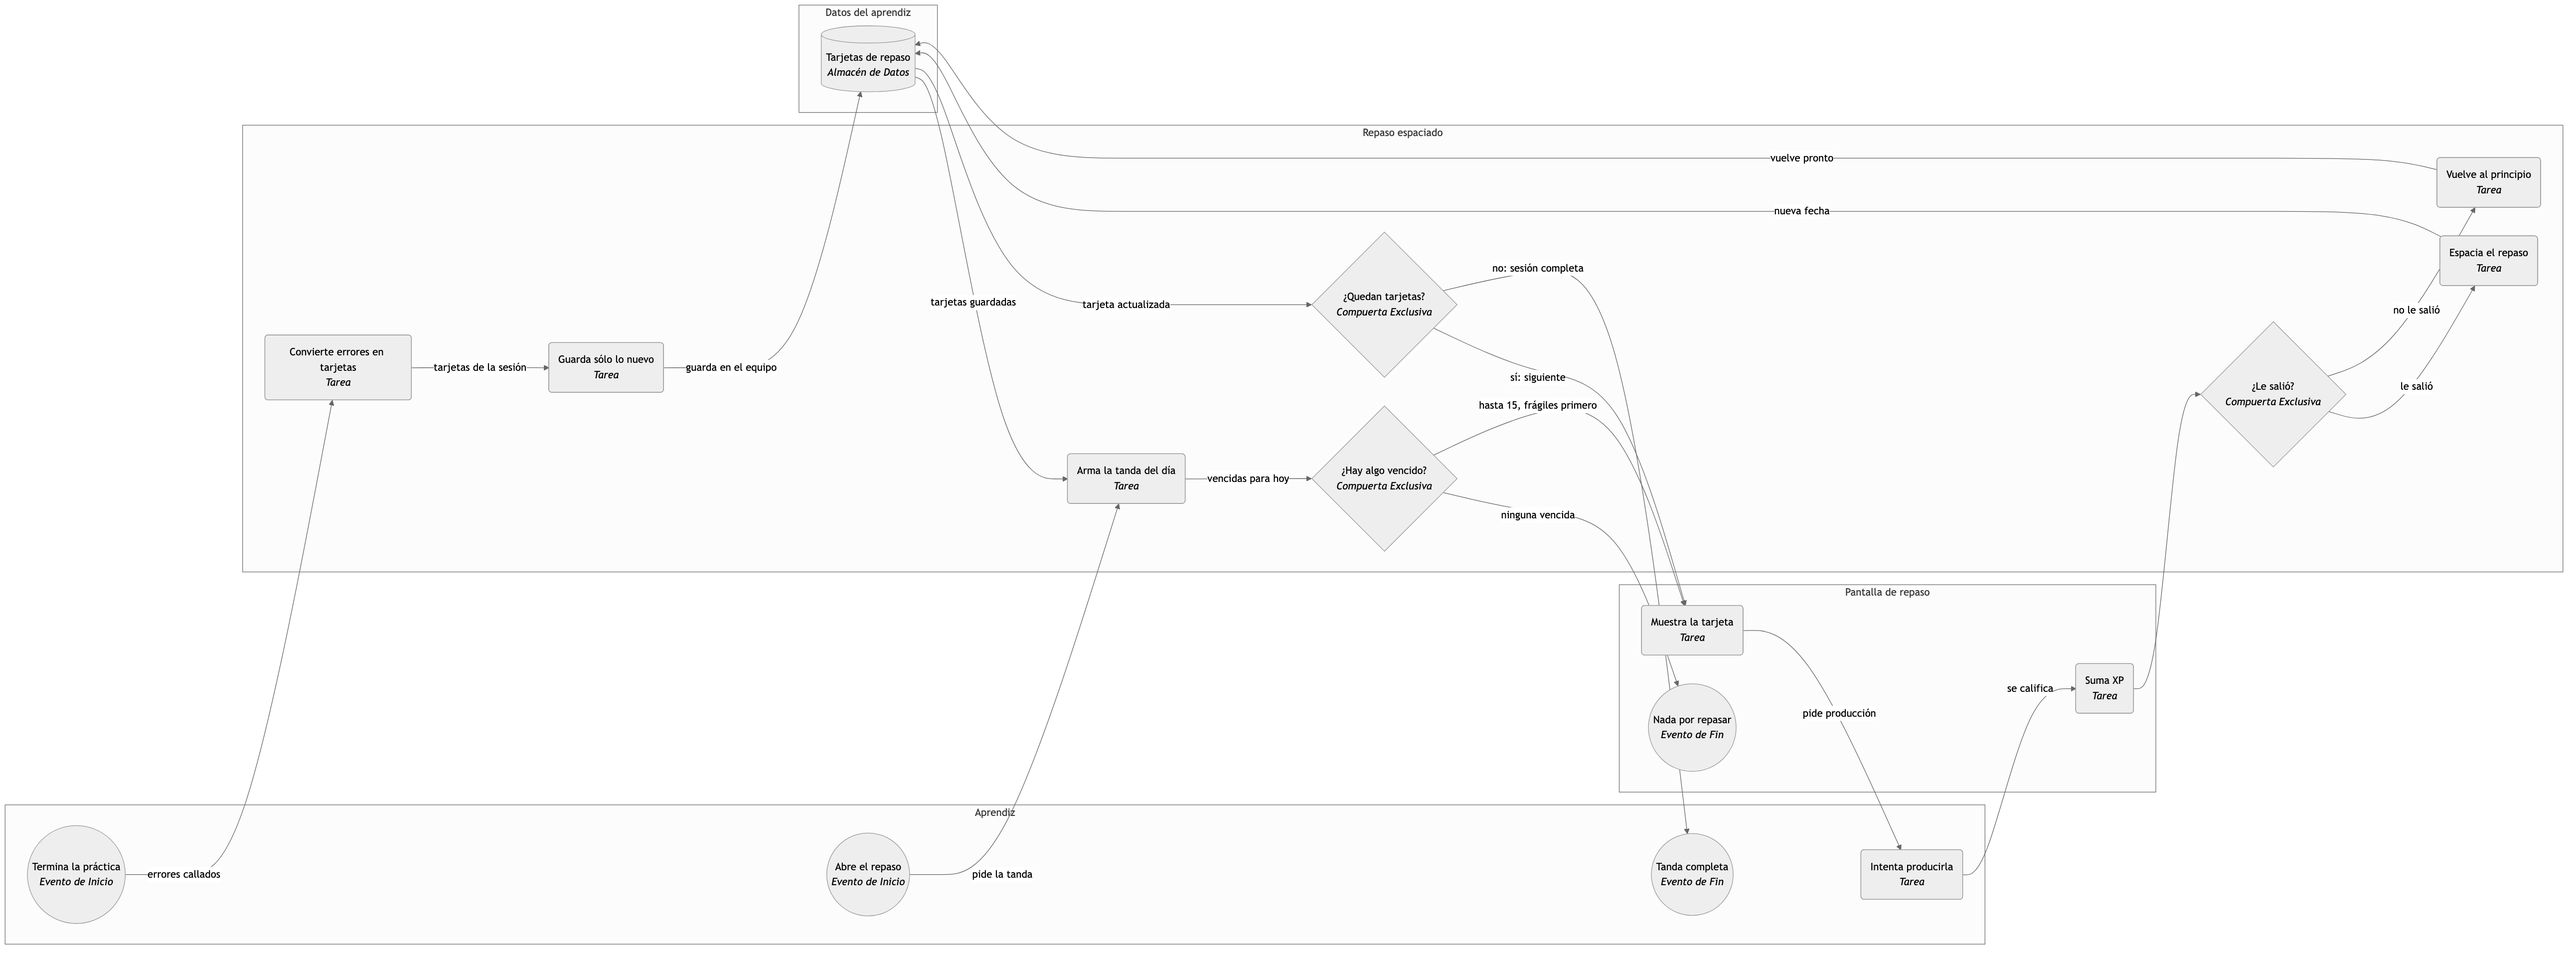
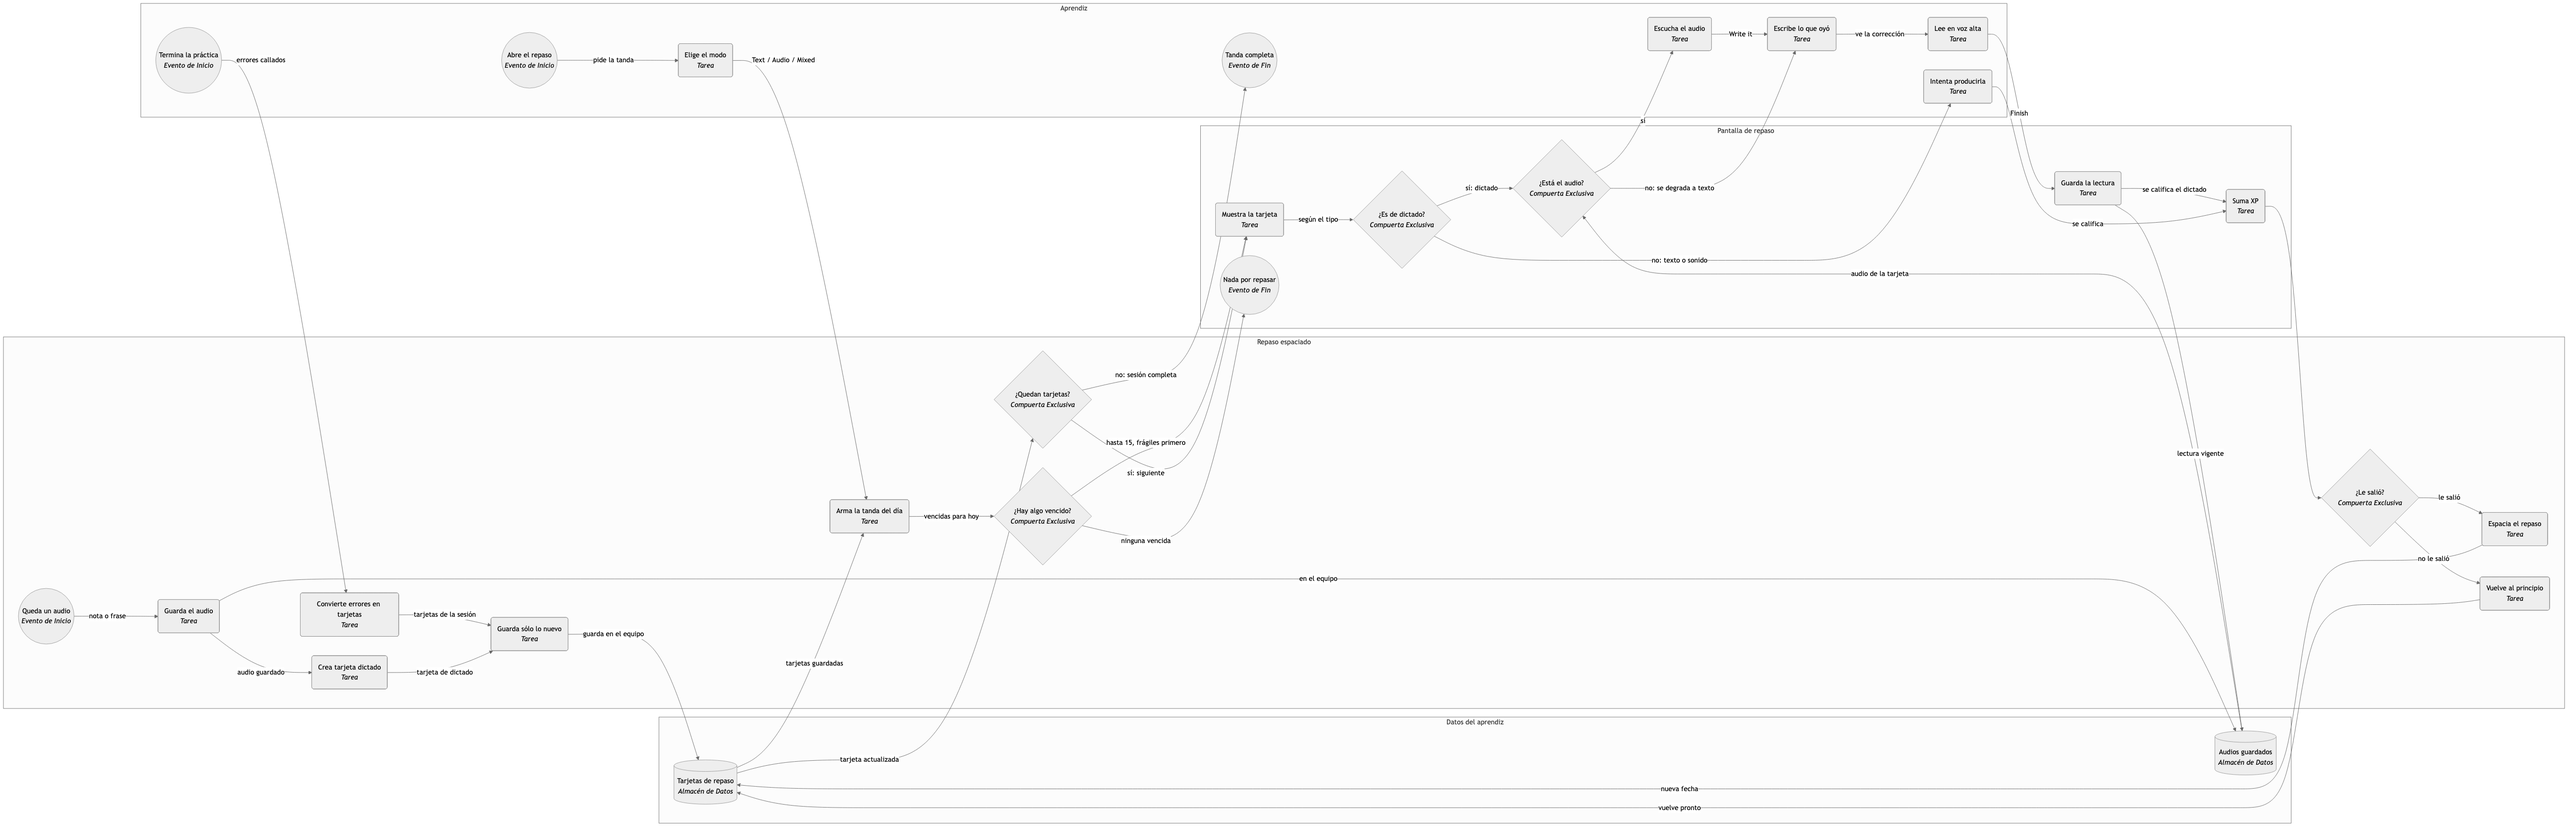
docs: arquitectura, diagramas y notas de release del repaso con audio
- ARCHITECTURE.md: puertos IAudioStore / ISetupProbe / ISetupCheckRepository,
  árbol EmmaProvider → AiGate → SetupCheckGate, layout de audio en userData,
  WAV → Opus, tope y desalojo, borrado en cascada y el freno de privacidad.
- Instantáneas repaso-srs, voz-y-pronunciacion y simulacion-y-feedback
  reescritas desde los callers reales; vistas PFA actualizadas (también
  Onboarding y C4, sin instantánea).
- docs/releases/0.11.0.md (borrador): incluye que volver a 0.10.x descarta
  las tarjetas audio-recall.

Closes #316
Closes #317

diff --git a/docs/ARCHITECTURE.md b/docs/ARCHITECTURE.md
@@ -67,8 +67,25 @@ El dominio define **puertos** (interfaces); afuera viven los **adaptadores**.
   que anuncia el premio con el evento de ventana `emma:xp-awarded`: la capa de
   celebración y la tarjeta de la barra lateral lo escuchan sin store global.
 
+- `src/domain/audio/i-audio-store.ts` → `IAudioStore` (`save`/`load`/`remove`/
+  `removeByConversation`/`removeAll`/`list`/`usage`): el audio guardado del repaso
+  (#281). El binario **no** viaja por el store JSON. Adaptador:
+  `src/infrastructure/audio/ipc-audio-store.ts` sobre los canales `audio-clip-*` del
+  main, con la respuesta validada con Zod también a la vuelta.
+- `src/domain/setup/i-setup-probe.ts` → `ISetupProbe` (`probeVoice`/`probeAi`/
+  `probeMic`, cada una con su `AbortSignal`): el chequeo de setup mide con las MISMAS
+  piezas que usa la práctica. Adaptador: `src/infrastructure/setup/browser-setup-probe.ts`
+  (nunca abre el micrófono: el permiso lo consulta el main con `systemPreferences`).
+- `src/domain/setup/i-setup-check-repository.ts` → `ISetupCheckRepository`
+  (`last`/`history`/`append`/`acknowledgeLast`): historial del chequeo (colección
+  `setupChecks`, tope de 20, sólo mediciones y diagnósticos). Adaptador:
+  `src/infrastructure/persistence/setup-check-repository.ts`.
+
 El perfil de nivel y el historial se cablean en `src/interface/di/repositories.ts`
-(`profileLevel`, `chatHistory`).
+(`profileLevel`, `chatHistory`). El audio y el chequeo se exponen a la UI por dos
+fachadas que atan casos de uso y puertos: `src/interface/audio-facade.ts` (con una
+cola para las escrituras de tarjetas: el store JSON es leer-modificar-escribir) y
+`src/interface/setup-facade.ts` (`run`/`needsFirstRun`/`acknowledge`).
 
 **Inyección:** los casos de uso reciben el puerto por argumento, nunca lo importan
 concreto. Ejemplo canónico: `application/english-teacher/teach-use-case.ts`
@@ -128,12 +145,73 @@ para `prefers-reduced-motion`). Freno:
 `src/components/__tests__/movimiento-centralizado.test.ts` (falla si un componente
 animado importa `motion/react` directo).
 
+## Audio guardado y chequeo de setup (#281)
+
+**Árbol de providers** (`src/interface/app-providers.tsx`), de afuera hacia adentro:
+
+```
+MotionProvider
+└─ EmmaProvider            runtime, perfil, repos
+   ├─ AiGate               bloquea hasta que hay motor de IA (local o nube)
+   │  └─ SetupCheckGate    primer arranque: chequeo de voz, IA y micrófono
+   │     └─ children       onboarding / app
+   ├─ SetupIssueListener   fallos en vivo → sugiere el chequeo (máx. 1 cada 10 min)
+   ├─ Toaster
+   └─ CelebrationLayer
+```
+
+`SetupCheckGate` vive **dentro** de `AiGate` (siempre hay un motor que probar) y
+devuelve `null` hasta que el runtime está listo, para no montar el onboarding ni
+calentar la voz mientras la sonda mide. Corre sólo si no hay un chequeo reconocido
+(`needsFirstRunCheck`); un perfil con el onboarding completo o un historial ilegible
+no bloquean. Veredicto `blocked` ⇒ sin botón para seguir; `warn` ⇒ «Continue anyway».
+Durante la práctica, `use-karaoke.ts` reporta la caída a la voz del sistema por el bus
+`emma:setup-issue` (`src/interface/live-failure-bus.ts`).
+
+**Almacén de audio en el main** (`main/services/audio-store.ts`, handlers en
+`main/services/audio-ipc.ts`, Zod en `main/services/audio-protocol.ts`). Misma base
+que el store JSON (`EMMA_DB_DIR` o `userData/emma`):
+
+```
+userData/emma/
+├─ store/                 colecciones JSON (srs, setupChecks, audioPrefs, …)
+└─ audio/
+   ├─ index.json          metadatos de cada clip: única fuente de verdad, escritura atómica
+   └─ clips/<id>.webm     binario Opus/WebM
+```
+
+Al arrancar, `reconcile()` borra archivos huérfanos y entradas sin archivo. Hay tres
+orígenes de clip: la nota de voz del aprendiz (`learner`, al enviar un turno hablado),
+las frases de Emma (`emma`, al cerrar el diálogo de la lección, en serie y cancelable:
+Kokoro atiende una síntesis a la vez) y la lectura en voz alta del repaso (`attempt`,
+una vigente por tarjeta). Las dos primeras crean una tarjeta `audio-recall`. Tope por
+defecto 500 MB (`DEFAULT_AUDIO_CAP_BYTES`): al llenarse sólo se desalojan clips de
+tarjetas dominadas (caja 5); si no alcanza, el clip nuevo se rechaza. Sin clip, la
+tarjeta se degrada a texto (`presentAudioCard`). Borrar una conversación borra sus
+clips después del historial (`src/components/chat/delete-conversation.ts`); «Clear
+chat history» y «Delete all data» borran todo el audio.
+
+**Formato y transcodificación.** Todo se graba con el mismo `MediaRecorder`
+(Opus a 32 kbps, tope duro de 60 s; `src/infrastructure/audio/clip-recorder-options.ts`).
+Kokoro entrega WAV a 24 kHz: `src/infrastructure/audio/wav-to-opus.ts` lo decodifica con
+Web Audio, lo reproduce hacia un `MediaStreamAudioDestinationNode` (no suena por los
+parlantes) y lo graba con ese mismo `MediaRecorder`, en tiempo real y en segundo plano.
+Sin ffmpeg ni dependencias nativas nuevas.
+
+**Privacidad: el audio nunca sale del equipo.** No hay canal de audio hacia la nube:
+ni el router/proveedores de IA (`src/lib/ai/**`) ni el adaptador remoto
+(`main/services/ai-remote*`) pueden importar módulos de audio ni tocar canales
+`audio-*`. Freno: `src/lib/ai/__tests__/audio-no-sale.test.ts` (con prueba de vida
+sobre un cebo). El historial del chequeo tampoco guarda audio ni prompts.
+
 ## Procesos Electron
 
 - **main** (`main.ts`, `main/`): ventana, config, IPC, esquemas, logger,
   servicios. Llaves de nube cifradas con `safeStorage`. La persistencia vive aquí:
   store JSON por colección (`main/services/store.ts`, un documento por colección
-  bajo `userData/emma/store/`, escritura atómica) — reemplaza a SQLite.
+  bajo `userData/emma/store/`, escritura atómica) — reemplaza a SQLite. El audio
+  guardado vive aparte, en `userData/emma/audio/` (ver «Audio guardado y chequeo de
+  setup»), y el permiso real del micrófono se consulta aquí (`mic-access-status`).
 - **utilityProcess «EMMA voice»** (`main/services/tts-native/host.ts`, #269): Kokoro-82M
   con `onnxruntime-node` en CPU multihilo, ~0,25 s de cómputo por s de audio (el WASM de un
   hilo iba a ~3,4). Proceso aparte para que un crash nativo no tumbe la app; el cliente

diff --git a/docs/releases/0.11.0.md b/docs/releases/0.11.0.md
@@ -1,0 +1,55 @@
+<!-- Borrador de la feature repaso-con-audio (#281). Se completa y se revisa en el
+     release de 0.11.0; las descargas siguen la plantilla. -->
+
+## EMMA 0.11.0 · beta
+
+EMMA 0.11.0 te deja repasar con los oídos: lo que dijiste en voz alta y las frases
+clave de Emma vuelven como tarjetas que se escuchan, se escriben y se leen en voz
+alta. Antes del onboarding, EMMA comprueba que la voz, la IA y el micrófono
+funcionan en tu equipo y te dice qué hacer si algo falla. Todo el audio queda en tu
+computadora.
+
+### Cambios
+
+- **Repaso con audio.** En el repaso elegís el modo: *Text* (como siempre), *Audio*
+  o *Mixed*. Una tarjeta de audio tiene tres pasos en una sola vista: escuchás la
+  frase (también a 0.75x), escribís lo que oíste y la leés en voz alta para
+  compararte con el original.
+- **Tu voz vuelve como tarjeta.** Cada nota de voz que mandás en una conversación se
+  guarda y se convierte en una tarjeta de dictado; si cometiste un error en ese
+  turno, la tarjeta de corrección también lleva tu audio.
+- **Las frases de Emma, para repasar.** Al cerrar la lección de una escena, sus
+  frases clave y las correcciones se guardan con la voz de Emma, en segundo plano.
+- **Chequeo antes de empezar.** La primera vez, «Setting up Emma» prueba la voz, la
+  IA y el micrófono. Si algo impide empezar, te dice por qué y cómo arreglarlo; si
+  sólo hay avisos, podés seguir con *Continue anyway*. El chequeo se puede repetir
+  desde *Settings → Audio and setup*, y EMMA te lo sugiere si durante la práctica la
+  voz cae a la voz básica del sistema.
+- **Tu audio, bajo tu control.** El audio nunca sale de tu equipo, ni siquiera con
+  la IA en la nube. En *Settings* ves cuánto ocupa y podés borrarlo; borrar una
+  conversación borra también sus audios, y *Clear chat history* o *Delete all data*
+  borran todos. Si un audio ya no está, su tarjeta se repasa como texto.
+
+> **Antes de volver a una versión anterior:** si después de usar la 0.11.0 instalás
+> la 0.10.x o una más vieja, esa versión no reconoce las tarjetas de audio y **las
+> descarta** la próxima vez que guarde el repaso. Los archivos de audio quedan en
+> disco, pero las tarjetas no se recuperan al volver a la 0.11.0. Si pensás volver
+> atrás, hacé antes una copia de la carpeta de datos de EMMA.
+
+### Descargas
+
+| SO | Archivo | Cómo abrir la primera vez |
+|---|---|---|
+| macOS (Apple Silicon) | `EMMA-0.11.0-arm64.dmg` | clic derecho → Abrir (la firma es ad-hoc: doble clic muestra «no se puede verificar») |
+| Windows | `EMMA.Setup.0.11.0.exe` | SmartScreen: «Más información» → «Ejecutar de todas formas» |
+| Linux | `EMMA-0.11.0.AppImage` | `chmod +x` al archivo y ejecutarlo |
+
+### Requisitos
+
+- Para la IA local: GPU con **WebGPU**. Sin WebGPU, podés usar la nube con una
+  llave propia de Google Gemini.
+- El audio guardado ocupa hasta 500 MB por defecto; al llenarse, EMMA libera primero
+  el de las tarjetas que ya dominás.
+- Micrófono con permiso del sistema para las notas de voz y la lectura en voz alta
+  (opcional: sin micrófono el repaso de audio sigue funcionando sin el paso de
+  grabar).
